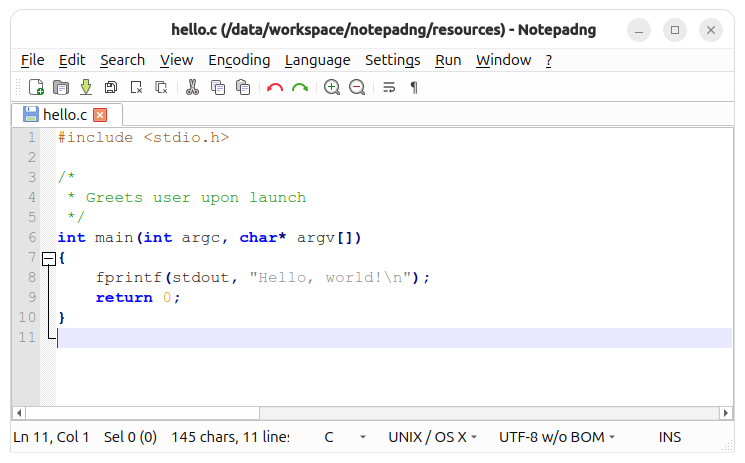
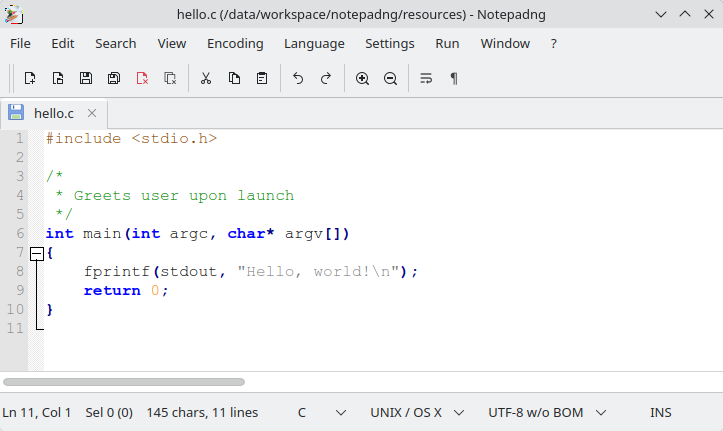
Apply styling

Changed region(s): [[0.0, 0.0, 1.0, 0.9652]]

diff --git a/style.css b/style.css
@@ -30,38 +30,46 @@ p, h1, h2, h3, h4, h5, h6 {
 
 #wrapper {
   width: 100%;
-  background-color: pink;
+  background: url("static/assets/bg.png");
 }
 
 #container {
   margin: 0 auto;
   width: 800px;
   text-align: center;
-  background-color: lightblue;
   font-size: 14pt;
   font-family: "Helvetica";
 }
 
-#container > * {
-  margin: 0 auto;
-}
-
 #sheet {
   padding: 32px;
-  background-color: lightgrey;
+  background-color: #d0e2e2;
   box-shadow: 0px 0px 10px 4px rgb(0 0 0 / 20%);
 }
 
+#sheet > * {
+  margin: 0 auto;
+}
+
 #footer {
-  background-color: #666666;
+  background-color: #183535;
   background-clip: text;
   color: transparent;
-  text-shadow: rgba(245,245,245,0.5) 0.5px 0px 0px;
+  text-shadow: rgba(240,240,240,0.5) 0.5px 1px 1px;
   font-size: 12pt;
+  padding: 6px;
 }
 
 #buttons-container {
   margin-top: 1em;
+}
+
+#description-container {
+  margin-top: 1em;
+}
+
+.screenshot {
+  box-shadow: 0px 0px 10px 4px rgb(0 0 0 / 50%);
 }
 
 .button {
@@ -69,12 +77,13 @@ p, h1, h2, h3, h4, h5, h6 {
   display: inline-block;
   padding: 10px;
   color: white;
-  background-color: grey;
+  background-color: #347f7f;
   width: 240px;
+  text-decoration: none;
 }
 
 .button:hover {
-  background-color: black;
+  background-color: #183535;
 }
 
 .button::before {
@@ -91,6 +100,11 @@ p, h1, h2, h3, h4, h5, h6 {
   background-size: 1.3em 1.3em;
 }
 
+.flathub:hover::before {
+  background: url("static/assets/logo/flathub-logo-mini-white.svg") no-repeat 0 0;
+  background-size: 1.3em 1.3em;
+}
+
 .snap::before {
   background: url("static/assets/logo/snapcraft-favicon.png") no-repeat 0 0;
   background-size: 1.3em 1.3em;
@@ -103,5 +117,10 @@ p, h1, h2, h3, h4, h5, h6 {
 
 .github::before {
   background: url("static/assets/logo/GitHub_Invertocat_Black.svg") no-repeat 0 0;
+  background-size: 1.3em 1.3em;
+}
+
+.github:hover::before {
+  background: url("static/assets/logo/GitHub_Invertocat_White.svg") no-repeat 0 0;
   background-size: 1.3em 1.3em;
 }

diff --git a/index.html b/index.html
@@ -9,10 +9,12 @@
       <div id="wrapper">
         <div id="container">
           <div id="sheet">
-            <img src="static/screenshots/screenshot-1.png"></img>
-            <h1>Notepadng - a text editor</h1>
-            <p>Notepadng is a text editor for programmers and power users.</p>
-            <p>It is based on <a href="https://notepadqq.com">Notepadqq</a> editor and replaces editor component with a Scintilla library, providing natural Notepad++-like user experience.</p>
+            <img class="screenshot" src="static/screenshots/screenshot-1.png"></img>
+            <div id="description-container">
+              <h1>Notepadng - a text editor</h1>
+              <p>Notepadng is a text editor for programmers and power users.</p>
+              <p>It is based on <a href="https://notepadqq.com">Notepadqq</a> editor and replaces editor component with a Scintilla library, providing natural Notepad++-like user experience.</p>
+            </div>
             <div id="buttons-container">
               <a class="button flathub" href="https://flathub.org/ru/apps/org.notepadng.Notepadng" target="_blank">Get it on FlatHub</a>
               <a class="button snap" href="https://snapcraft.io/org.notepadng.Notepadng" target="_blank">Get it on Snap Store</a>